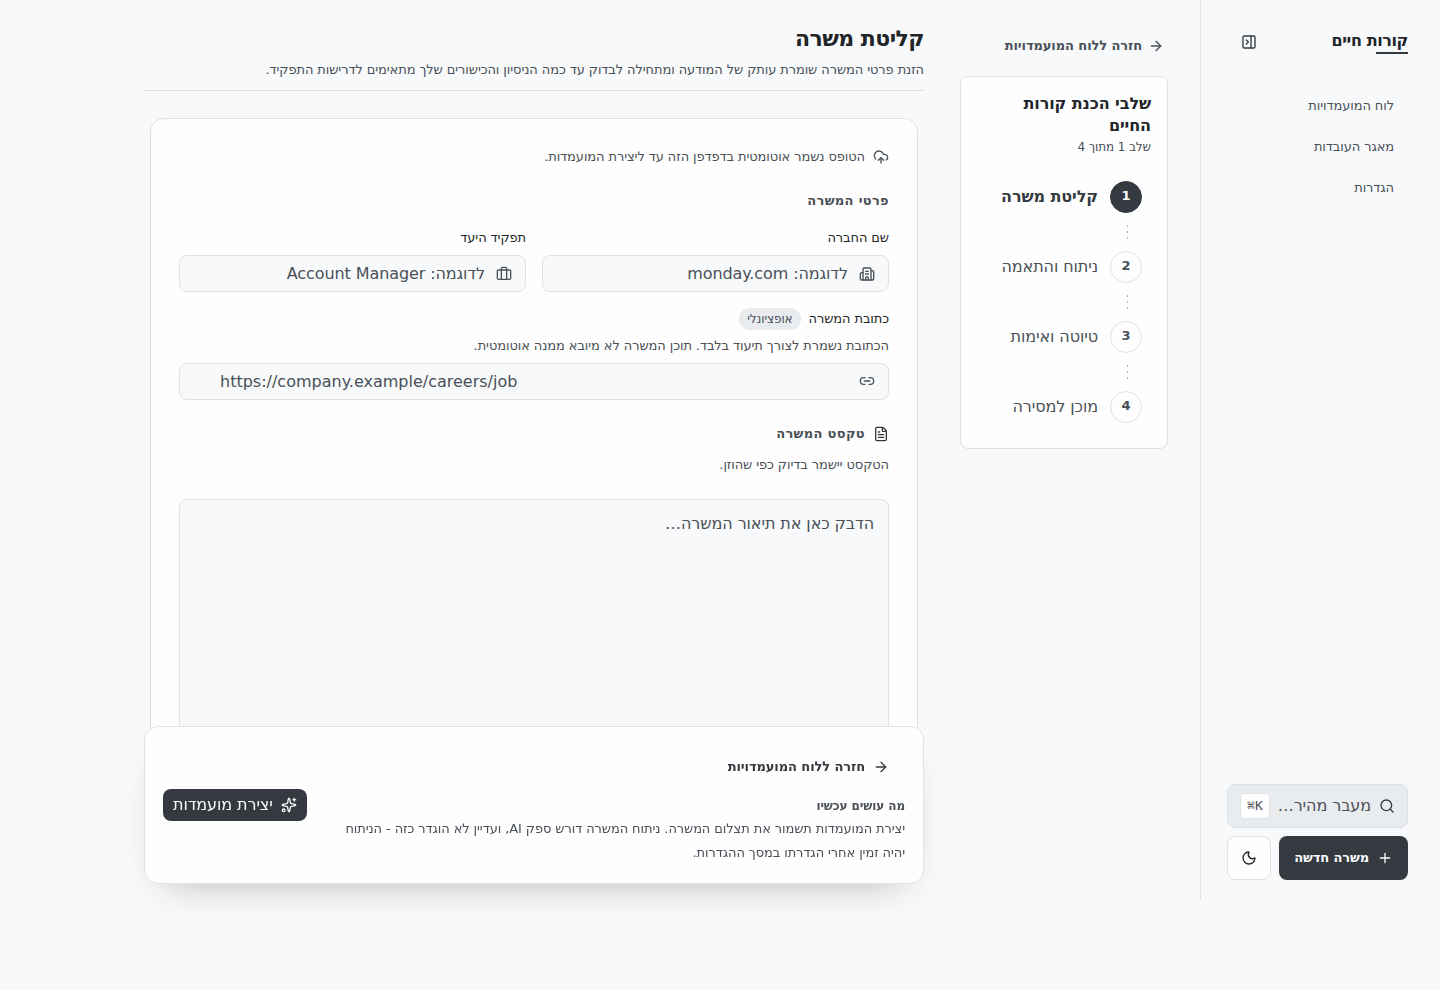
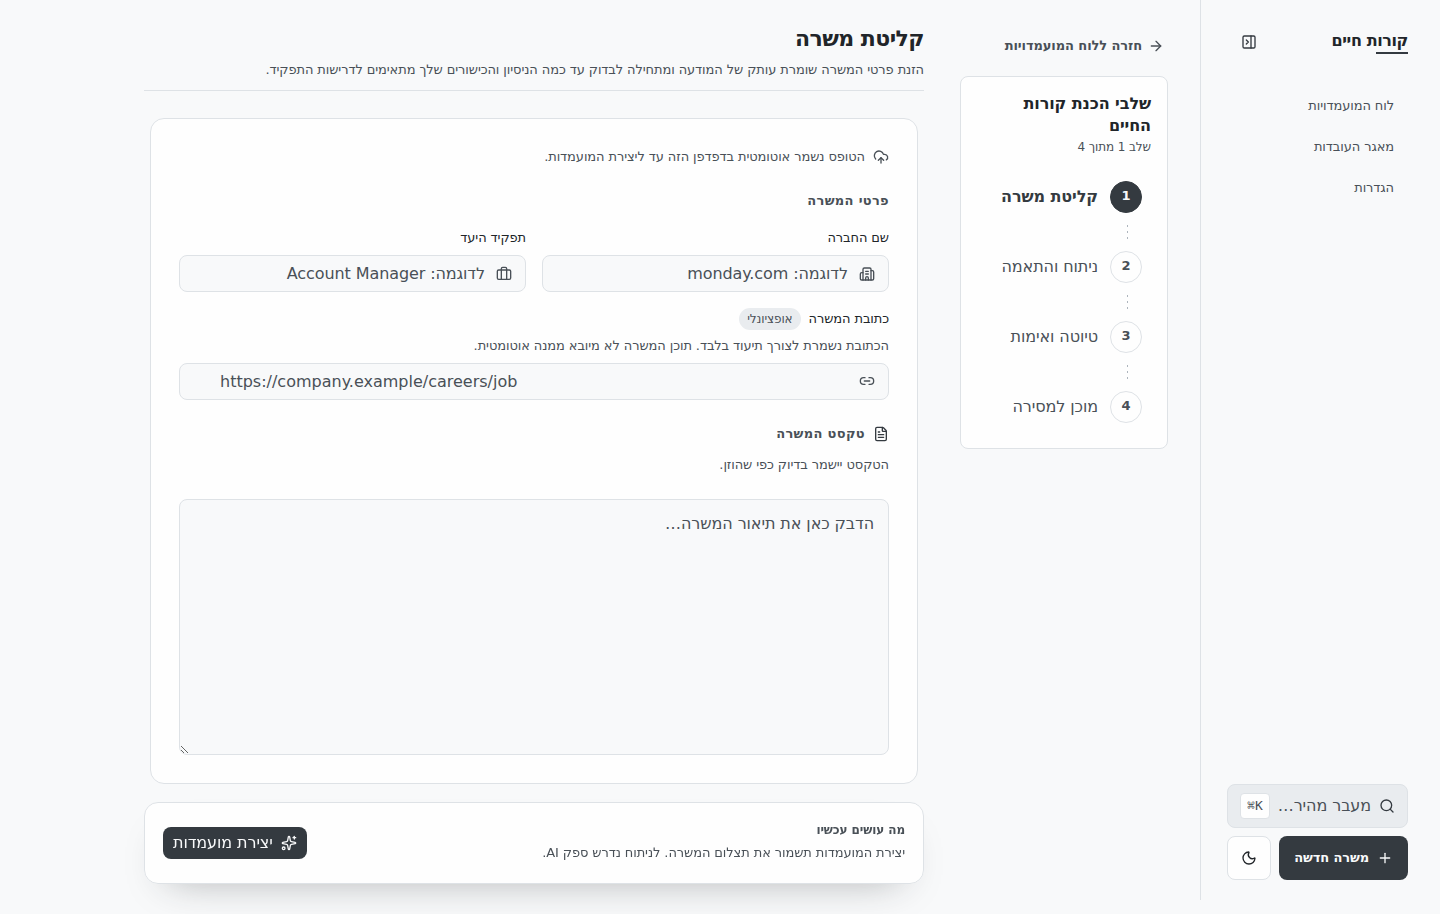
Intake: one way back to the board, and a one-row commit bar
- Drop the commit bar's back link on the intake step: it is the first step, and the
  spine beside the form already links back to the board.
- CommitBar: without a back link the primary action spanned both grid columns at
  every width, so from sm up it fell to its own row and doubled the bar's height.
  It now spans both only below sm, as the layout comment intends.
- Shorten the no-provider sentence so it fits the bar's single line.

Claude-Session: https://claude.ai/code/session_017VWSom5UTdr8gTcfqrSNap

diff --git a/frontend/src/features/application-intake/pages/NewApplicationPage.tsx b/frontend/src/features/application-intake/pages/NewApplicationPage.tsx
@@ -1,14 +1,13 @@
-import { ArrowRight, Sparkles } from "lucide-react";
+import { Sparkles } from "lucide-react";
 import { useEffect, useState } from "react";
-import { Link, useNavigate } from "react-router-dom";
+import { useNavigate } from "react-router-dom";
 
 import { aiRegenerationAvailable } from "@/api/settings";
 import { useSettings } from "@/api/useSettings";
-import { boardPath } from "@/app/boardReturn";
 import { routePaths } from "@/app/routePaths";
 import { WizardStepShell } from "@/features/preparation";
 import { useAppForm } from "@/hooks/useAppForm";
-import { Button, buttonClasses } from "@/ui/Button";
+import { Button } from "@/ui/Button";
 import { CommitBar, NEXT_STEP_LABEL } from "@/ui/CommitBar";
 import { ApplicationIntakeForm } from "../components/ApplicationIntakeForm";
 import { useApplicationIntakeSubmission } from "../hooks/useApplicationIntakeSubmission";
@@ -100,13 +99,9 @@ export const NewApplicationPage = () => {
           serverValidationFailed={submission.fieldErrors !== null}
         />
       </div>
+      {/* No `back`: this is the first step, so there is no previous one to return to, and
+          the spine beside the form already carries the way back to the board. */}
       <CommitBar
-        back={
-          <Link className={buttonClasses("ghost")} to={boardPath()}>
-            <ArrowRight aria-hidden="true" className="size-icon-md" />
-            חזרה ללוח המועמדויות
-          </Link>
-        }
         label={NEXT_STEP_LABEL}
         result={
           submission.duplicateMatches === null
@@ -137,7 +132,7 @@ export const NewApplicationPage = () => {
         <p className="text-support leading-6 text-cv-text-muted">
           {submission.duplicateMatches === null
             ? analysisUnavailable
-              ? "יצירת המועמדות תשמור את תצלום המשרה. ניתוח המשרה דורש ספק AI, ועדיין לא הוגדר כזה - הניתוח יהיה זמין אחרי הגדרתו במסך ההגדרות."
+              ? "יצירת המועמדות תשמור את תצלום המשרה. לניתוח נדרש ספק AI."
               : "יצירת המועמדות תשמור את תצלום המשרה ותתחיל את הניתוח."
             : "נדרש אישור מפורש כדי לשמור מועמדות חדשה לצד המועמדויות הדומות."}
         </p>

diff --git a/frontend/src/features/application-intake/pages/NewApplicationPage.test.tsx b/frontend/src/features/application-intake/pages/NewApplicationPage.test.tsx
@@ -185,30 +185,28 @@ describe("NewApplicationPage", () => {
     window.sessionStorage.setItem("cv:board-query", "activity=all&stage=approved");
     renderPage("/");
 
-    expect(screen.getAllByRole("link", { name: "חזרה ללוח המועמדויות" })).toHaveLength(2);
-    for (const link of screen.getAllByRole("link", { name: "חזרה ללוח המועמדויות" })) {
-      expect(link).toHaveAttribute("href", "/?activity=all&stage=approved");
-    }
+    expect(screen.getByRole("link", { name: "חזרה ללוח המועמדויות" })).toHaveAttribute(
+      "href",
+      "/?activity=all&stage=approved",
+    );
     expect(screen.getByRole("heading", { name: "קליטת משרה" })).toBeInTheDocument();
   });
 
   it("promises an analysis only when a provider can run one", () => {
     renderPage("/");
-    expect(screen.getByText(/ניתוח המשרה דורש ספק AI/)).toBeInTheDocument();
+    expect(screen.getByText(/לניתוח נדרש ספק AI/)).toBeInTheDocument();
     expect(screen.queryByText(/ותתחיל את הניתוח/)).not.toBeInTheDocument();
     cleanup();
 
     renderPage("/", true);
     expect(screen.getByText("יצירת המועמדות תשמור את תצלום המשרה ותתחיל את הניתוח.")).toBeInTheDocument();
-    expect(screen.queryByText(/ניתוח המשרה דורש ספק AI/)).not.toBeInTheDocument();
+    expect(screen.queryByText(/לניתוח נדרש ספק AI/)).not.toBeInTheDocument();
   });
 
   it("returns to the bare board when nothing was remembered", () => {
     renderPage("/");
 
-    for (const link of screen.getAllByRole("link", { name: "חזרה ללוח המועמדויות" })) {
-      expect(link).toHaveAttribute("href", "/");
-    }
+    expect(screen.getByRole("link", { name: "חזרה ללוח המועמדויות" })).toHaveAttribute("href", "/");
   });
 
   it("restores an intake draft from persistent browser storage without changing its text", () => {

diff --git a/frontend/src/ui/CommitBar.tsx b/frontend/src/ui/CommitBar.tsx
@@ -91,7 +91,7 @@ const CommitBarSurface = ({ back, children, inline, label, primary, result }: Co
       <div
         className={cx(
           "flex flex-wrap items-center gap-3 sm:col-start-auto sm:row-start-auto sm:justify-self-end",
-          back === undefined ? "col-span-2" : "col-start-2 row-start-2 justify-self-end",
+          back === undefined ? "col-span-2 sm:col-span-1" : "col-start-2 row-start-2 justify-self-end",
         )}
       >
         {primary}
